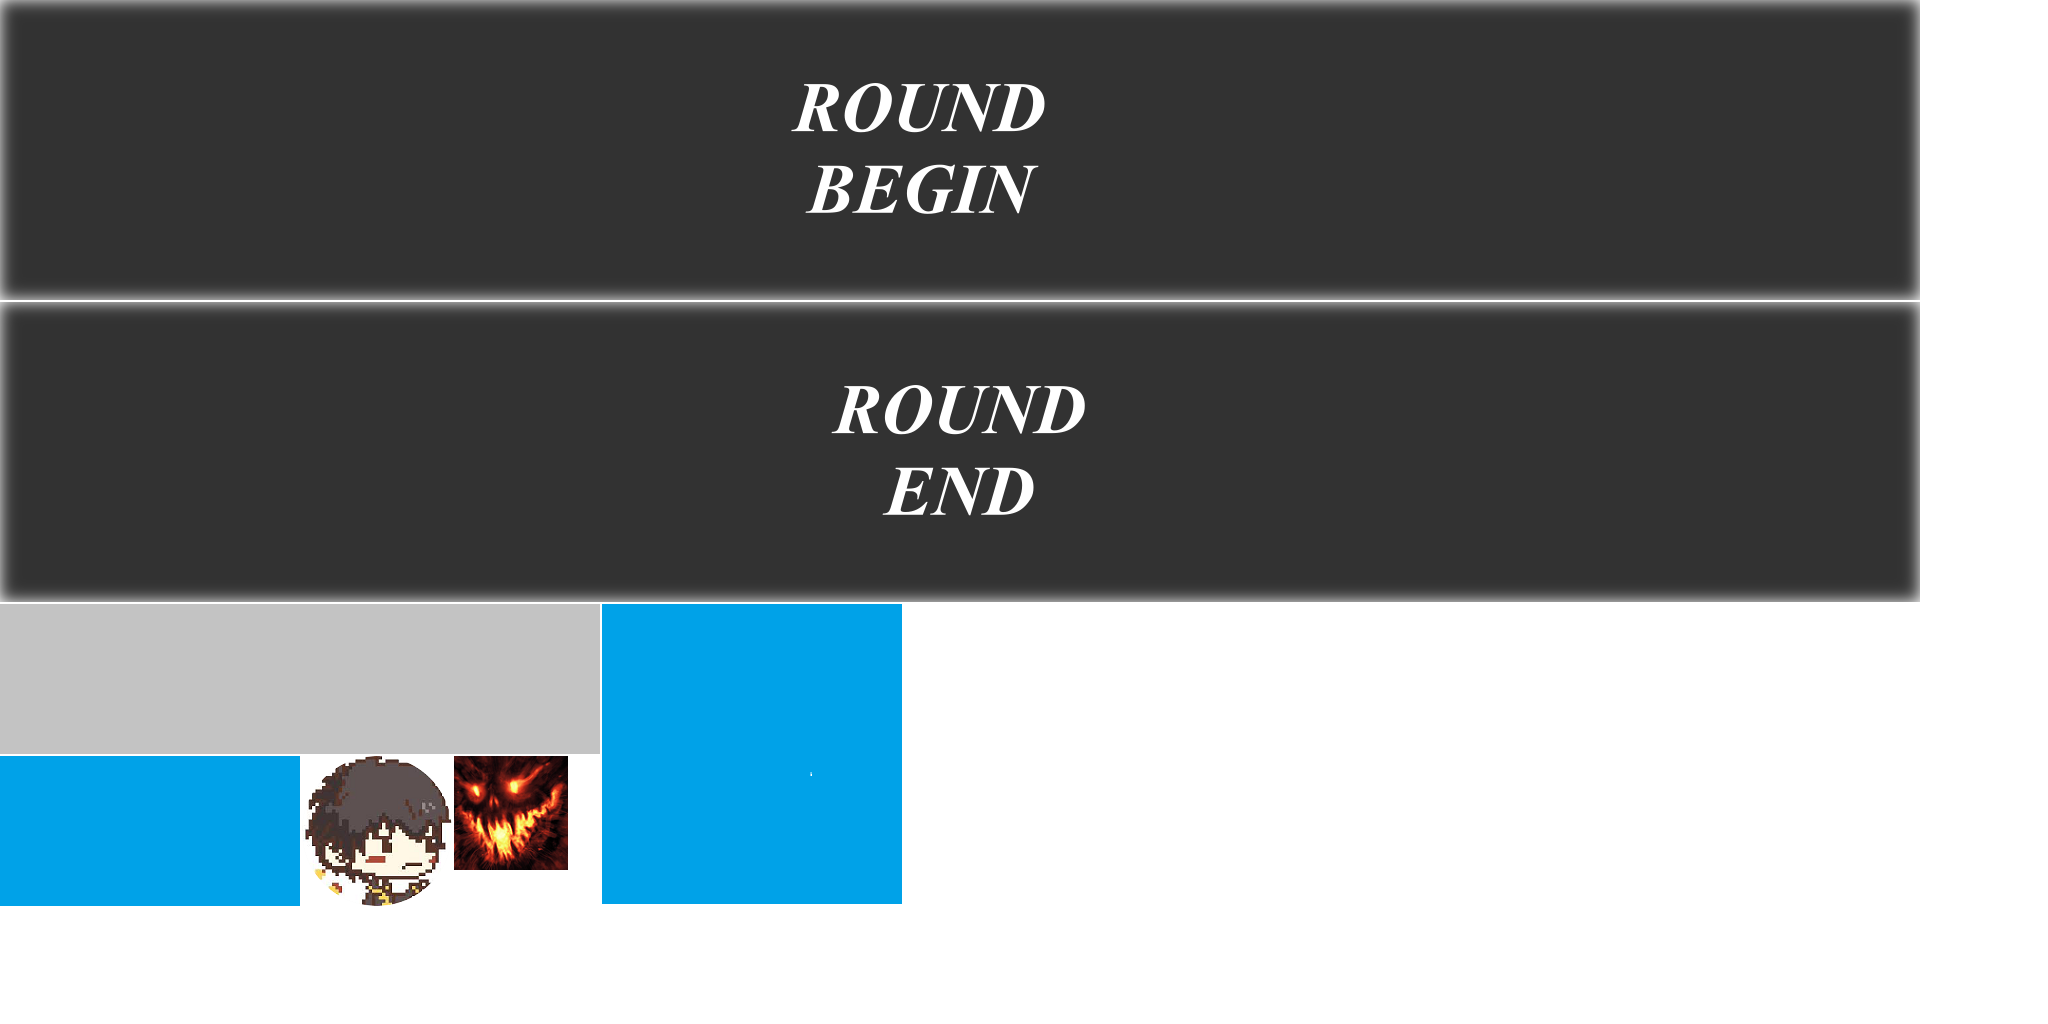
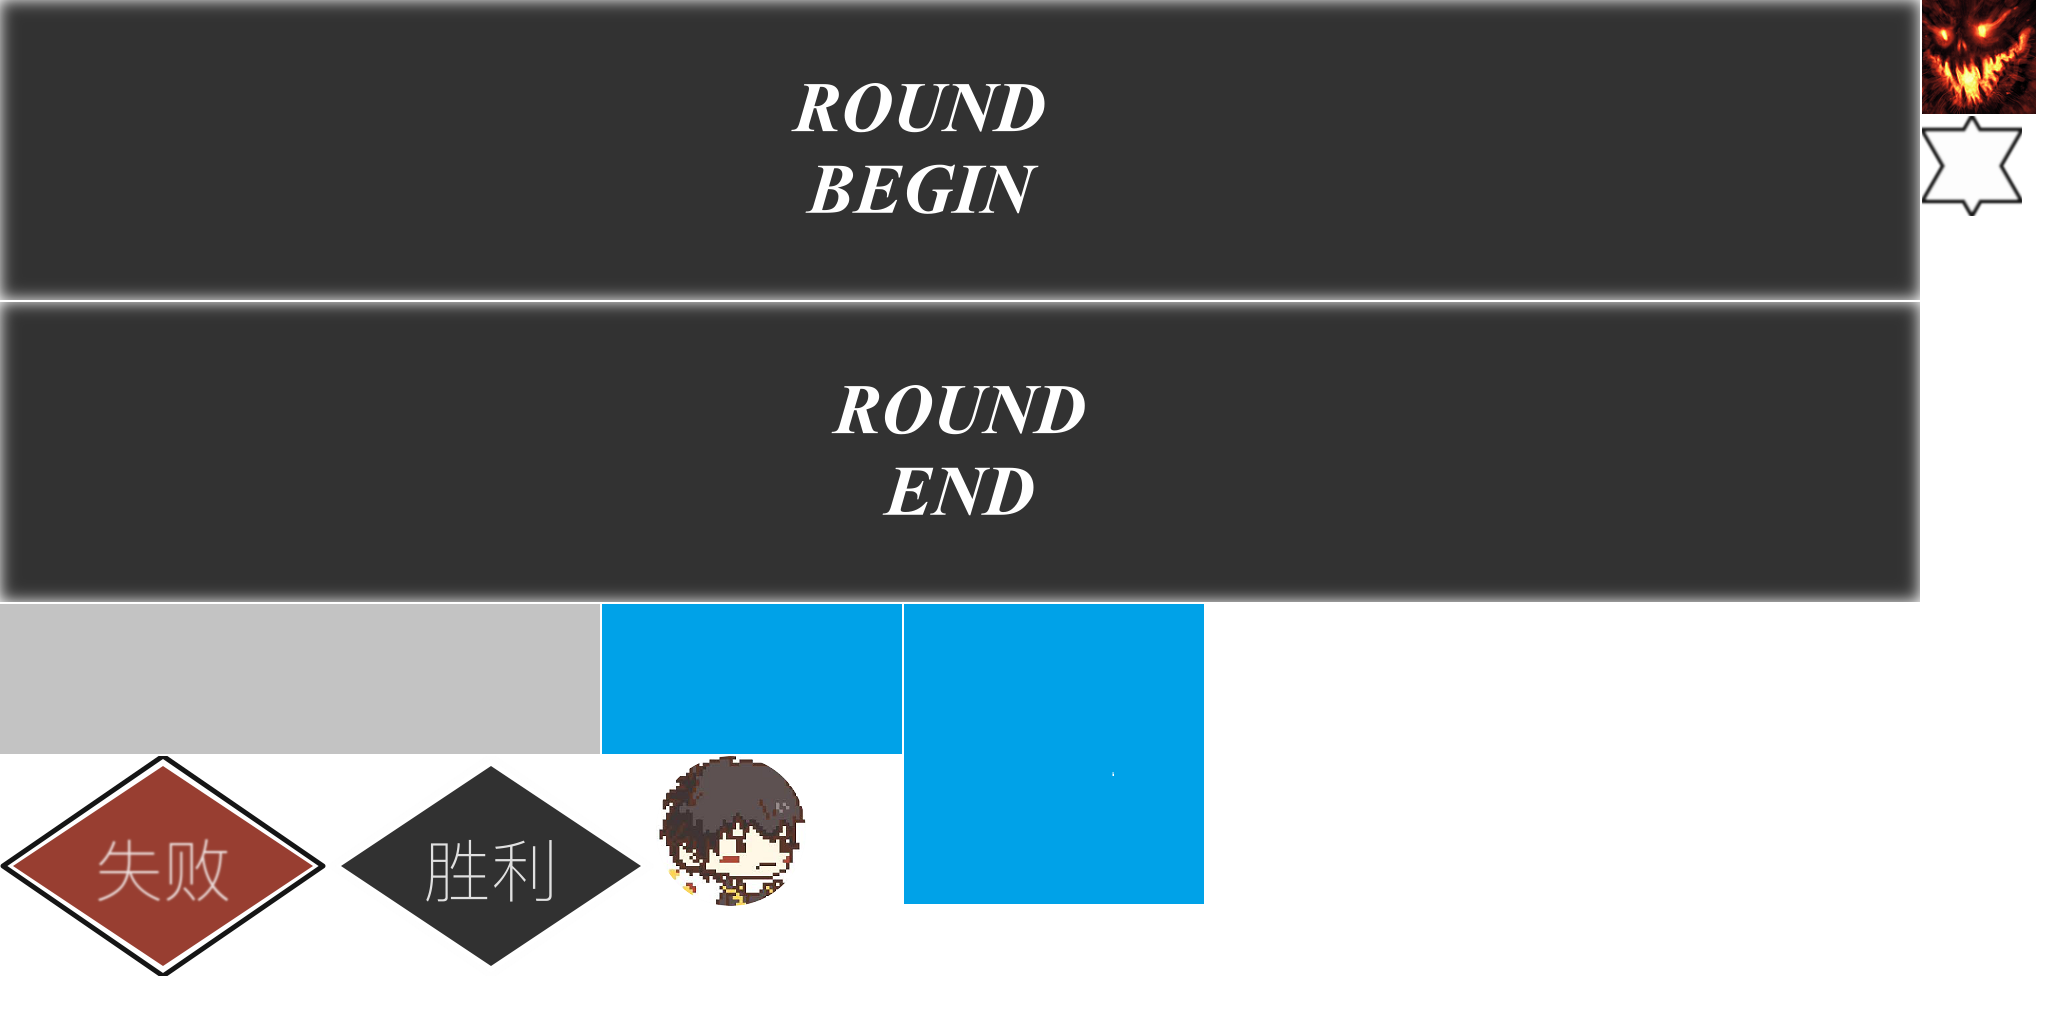
game end logic

Changed region(s): [[0.0, 0.5625, 0.5938, 0.9688], [0.9375, 0.0, 1.0, 0.2188]]

diff --git a/Checkmate/Assets/chess/Services/Game/GameNetManager.cs b/Checkmate/Assets/chess/Services/Game/GameNetManager.cs
@@ -33,6 +33,7 @@ namespace Checkmate.Services.Game
         public Action<bool> onRoundBegin;//回合开始事件
         public Action<uint> onControlStart=null;//操作开始
         public Action<byte[]> onRoundEnd = null;//回合结束
+        public Action<bool> onGameEnd = null;//游戏结束事件
 
         GameActionData mTempAction = new GameActionData();
         v3i mTempPos = new v3i();
@@ -51,7 +52,14 @@ namespace Checkmate.Services.Game
 
         public void Clear()
         {
-            
+            mFSP.Stop();
+            mFSP.SetFrameListener(null);
+            mFSP.onGameBegin -= OnGameBegin;
+            mFSP.onRoundBegin -= OnRoundBegin;
+            mFSP.onControlStart -= OnControlBegin;
+            mFSP.onRoundEnd -= OnRoundEnd;
+            mFSP.onGameEnd -= OnGameEnd;
+            onActionRecv = null;
         }
 
         public void Start(FSPParam param)
@@ -157,13 +165,17 @@ namespace Checkmate.Services.Game
         public void EndGame(int winner)
         {
             Debuger.LogWarning("end game with:{0}", winner);
-            mFSP.SendFSP(EndCmd, winner);
+            mFSP.SendGameEnd(winner);
         }
 
         //游戏结束时调用
         private void OnGameEnd(byte[] content)
         {
-
+            bool result = PBSerializer.NDeserialize<bool>(content);
+            if (onGameEnd != null)
+            {
+                onGameEnd.Invoke(result);
+            }
         }
 
         //移动
@@ -230,11 +242,6 @@ namespace Checkmate.Services.Game
                         OnRecvAction(message.content);
                         return;
                     }
-                case EndCmd:
-                    {
-                        OnEndConfirmRecv(message.content);
-                        return;
-                    }
             }
         }
 
@@ -249,12 +256,5 @@ namespace Checkmate.Services.Game
             }
         }
 
-
-        //接收到确认结束消息
-        private void OnEndConfirmRecv(byte[] content)
-        {
-            //发送结束消息
-            mFSP.SendGameEnd();
-        }
     }
 }

diff --git a/Checkmate/Assets/chess/Modules/Game/GameManager.cs b/Checkmate/Assets/chess/Modules/Game/GameManager.cs
@@ -224,10 +224,16 @@ namespace Checkmate.Modules.Game
             GameNetManager.Instance.onControlStart = OnControlStart;
             GameNetManager.Instance.onRoundEnd = OnRoundEnd;
             GameNetManager.Instance.onRoundBegin = OnRoundBegin;
-
+            GameNetManager.Instance.onGameEnd = OnGameEnd;
             QGFRandom.Default.Seed = param.seed;
             
             wait = false;
+        }
+
+        private void OnGameEnd(bool result)
+        {
+            Debuger.Log("recv game end");
+            GamingPageManager.Instance.ShowGameEnd(result);
         }
 
         private void OnControlStart(uint pid)
@@ -372,6 +378,24 @@ namespace Checkmate.Modules.Game
             }
         }
 
+        private void OnDestroy()
+        {
+            initFinished = false;
+            wait = true;
+            PlayerManager.Instance.Clear();
+            GameNetManager.Instance.Clear();
+            SkillManager.Instance.Clear();
+            RoleManager.Instance.Clear();
+            BuffManager.Instance.Clear();
+            EffectManager.Instance.Clear();
+            DrawUtil.Clear();
+            APManager.Instance.Clear();
+            GameEnv.Instance.Clear();
+            MoveManager.Instance.Clear();
+            ObjectPool.Instance.Clear();
+            ExecuteUtil.Instance.Clear();
+        }
+
 
         IEnumerator CheckGameCondition(IMode mode)
         {
@@ -383,7 +407,7 @@ namespace Checkmate.Modules.Game
                 //如果满足则结束
                 if(mode.CheckEnd(out winner))
                 {
-                    //GameNetManager.Instance.EndGame(winner);
+                    GameNetManager.Instance.EndGame(winner);
                 }
             }
         }

diff --git a/Checkmate/Assets/chess/Modules/Game/UI/EndPage.cs b/Checkmate/Assets/chess/Modules/Game/UI/EndPage.cs
@@ -1,0 +1,50 @@
+using Assets.Chess;
+using FairyGUI;
+using QGF.Unity.FGUI;
+using System;
+using System.Collections.Generic;
+using System.Linq;
+using System.Text;
+using System.Threading.Tasks;
+
+namespace Checkmate.Modules.Game.UI
+{
+    public class EndPage:FGUIPage
+    {
+        GImage mSuc, mFail;//胜利与失败的图片
+        GButton mConfirm;//确认
+
+        protected override void OnLoad()
+        {
+            base.OnLoad();
+            mSuc = mCtrlTarget.GetChild("SucBg").asImage;
+            mFail = mCtrlTarget.GetChild("FailBg").asImage;
+
+            mConfirm = mConfirm.GetChild("ConfirmBtn").asButton;
+            mConfirm.onClick.Add(OnButtonClicked);
+        }
+
+        protected override void OnOpen(object arg)
+        {
+            base.OnOpen(arg);
+            bool result = (bool)arg;
+            //如果是胜利
+            if (result)
+            {
+                mSuc.visible = true;
+                mFail.visible = false;
+            }
+            else
+            {
+                mSuc.visible = false;
+                mFail.visible = true;
+            }
+        }
+
+
+        private void OnButtonClicked()
+        {
+            GlobalEvent.onGameEnd.Invoke();
+        }
+    }
+}

diff --git a/Checkmate/Assets/chess/Modules/Game/GamingPageManager.cs b/Checkmate/Assets/chess/Modules/Game/GamingPageManager.cs
@@ -14,12 +14,14 @@ namespace Checkmate.Modules.Game
     {
         static GamingPage mPage;
         static RoundPage mRoundPage;//回合切换页
+        static EndPage mEndPage;//结束页
         public Action onRoundEndClicked;//回合结束点击事件
         public void OpenPage()
         {
             mPage= FGUIManager.Instance.Open<GamingPage>("MainPage", "GamingPage", null);
             mPage.onRoundEnd = OnRoundEndClicked;
             mRoundPage = FGUIManager.Instance.LoadToMemory<RoundPage>("RoundChangePage", "GamingPage");
+            mEndPage= FGUIManager.Instance.LoadToMemory<EndPage>("GameEndPage", "GamingPage");
         }
 
         public void OnRoundEndClicked()
@@ -105,6 +107,16 @@ namespace Checkmate.Modules.Game
         public bool RoundChanging()
         {
             return mRoundPage.IsPlaying;
+        }
+        #endregion
+
+        #region 游戏结束显示
+        public void ShowGameEnd(bool result)
+        {
+            if (!mEndPage.IsOpened)
+            {
+                FGUIManager.Instance.Open<EndPage>("GameEndPage", "GamingPage", result);
+            }
         }
         #endregion
     }

diff --git a/Checkmate/Assets/chess/AppMain.cs b/Checkmate/Assets/chess/AppMain.cs
@@ -125,6 +125,7 @@ namespace Assets.Chess
 
             //初始化游戏开始事件
             GlobalEvent.onGameStart += OnGameStart;
+            GlobalEvent.onGameEnd += OnGameEnd;
 
             //example
             
@@ -173,6 +174,15 @@ namespace Assets.Chess
             AppLoading.Update("地图加载中...", progress);
         }
 
+        private void OnGameEnd()
+        {
+            //加载场景
+            FGUIManager.Instance.LoadSceneWithClearAll("Main", OnGameSceneLoadStart, () =>
+            {
+                ModuleManager.Instance.ShowModule("HomeModule");
+                AppLoading.Close();
+            }, OnGameSceneLoading);
+        }
 
         private void OnLoginSuccess()
         {

diff --git a/Checkmate/Assets/chess/Global/Role/RoleManager.cs b/Checkmate/Assets/chess/Global/Role/RoleManager.cs
@@ -38,6 +38,19 @@ namespace Checkmate.Game.Role
             mPlayerRoles = new Dictionary<uint, List<int>>();
         }
 
+        public void Clear()
+        {
+            mActiveRoles.Clear();
+            mRolePool.Clear();
+            mModelPrefabs.Clear();
+            foreach(var list in mPlayerRoles.Values)
+            {
+                list.Clear();
+            }
+            mPlayerRoles.Clear();
+            mVisibleRole.Clear();
+        }
+
         //添加角色
         public RoleController AddRole(RoleData role)
         {

diff --git a/Checkmate/Assets/chess/Global/Player/PlayerManager.cs b/Checkmate/Assets/chess/Global/Player/PlayerManager.cs
@@ -29,10 +29,6 @@ namespace Checkmate.Game.Player
         }
 
 
-        public void Clear()
-        {
-
-        }
 
         private bool mOperating;
 
@@ -128,6 +124,16 @@ namespace Checkmate.Game.Player
         public List<uint> GetAllPlayers()
         {
             return mFriends.Keys.ToList();
+        }
+
+
+
+        public void Clear()
+        {
+            IsWaiting = true;
+            mOperating = false;
+            mFriends.Clear();
+            mEnemys.Clear();
         }
     }
 }

diff --git a/Checkmate/Assets/chess/Global/Utils/ObjectPool.cs b/Checkmate/Assets/chess/Global/Utils/ObjectPool.cs
@@ -69,6 +69,16 @@ namespace Checkmate.Game.Utils
             Debuger.Log("object pool finished");
         }
 
+        public void Clear()
+        {
+            foreach(var list in mGameObjectPool.Values)
+            {
+                list.Clear();
+            }
+            mGameObjectPool.Clear();
+            mPrefabs.Clear();
+        }
+
         //获取对象
         public GameObject GetGameObject(string type)
         {

diff --git a/Checkmate/Assets/chess/Global/Effect/EffectManager.cs b/Checkmate/Assets/chess/Global/Effect/EffectManager.cs
@@ -55,6 +55,15 @@ namespace Checkmate.Game.Effect
             return true;
         }
 
+        public void Clear()
+        {
+            mLoadedEffectFile.Clear();
+            mLoadedEffects.Clear();
+            mAllEffects.Clear();
+            mTimelyCell.Clear();
+            mTimelyEffect.Clear();
+        }
+
         //获取效果实例
         public int InstanceEffect(int idx,out Effect result)
         {

diff --git a/Checkmate/Assets/chess/Global/Buff/BuffManager.cs b/Checkmate/Assets/chess/Global/Buff/BuffManager.cs
@@ -34,6 +34,13 @@ namespace Checkmate.Game.Buff
             mBuffIconRes = new Dictionary<string, Texture2D>();
         }
 
+        public void Clear()
+        {
+            mLoadedBuff.Clear();
+            mBuffIconRes.Clear();
+            mBuffInstances.Clear();
+        }
+
         public Buff GetBuff(int id)
         {
             if (!mBuffInstances.ContainsKey(id))

diff --git a/Checkmate/Assets/chess/GlobalEvent.cs b/Checkmate/Assets/chess/GlobalEvent.cs
@@ -19,5 +19,6 @@ namespace Assets.Chess
         public static QGFEvent<int, string> onLoginFailed = new QGFEvent<int, string>();//登录失败
 
         public static QGFEvent<PlayerTeamData, uint,FSPParam> onGameStart = new QGFEvent<PlayerTeamData, uint,FSPParam>();//游戏开始事件
+        public static QGFEvent onGameEnd = new QGFEvent();//游戏结束事件
     }
 }

diff --git a/Checkmate/Assets/chess/Modules/Game/Utils/DrawUtil.cs b/Checkmate/Assets/chess/Modules/Game/Utils/DrawUtil.cs
@@ -27,6 +27,11 @@ namespace Checkmate.Modules.Game.Utils
             mDrawed = new List<Position>();
         }
 
+        public static void Clear()
+        {
+            mDrawed.Clear();
+        }
+
         public static void DrawSingle(Position position, int style)
         {
             CellController cell =MapManager.Instance.GetCell(position);
